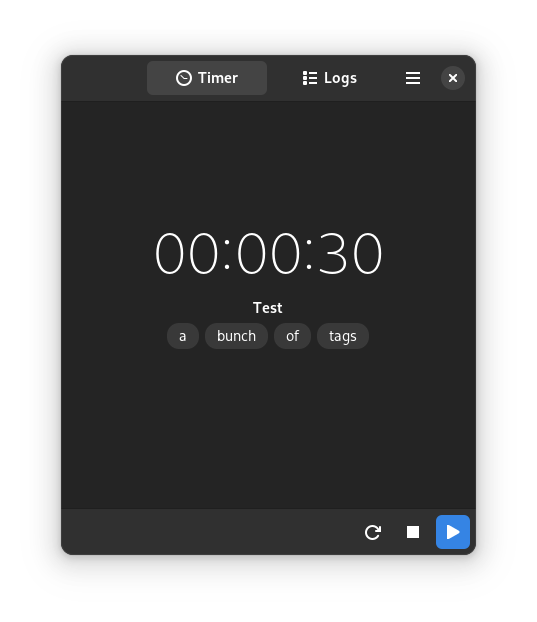
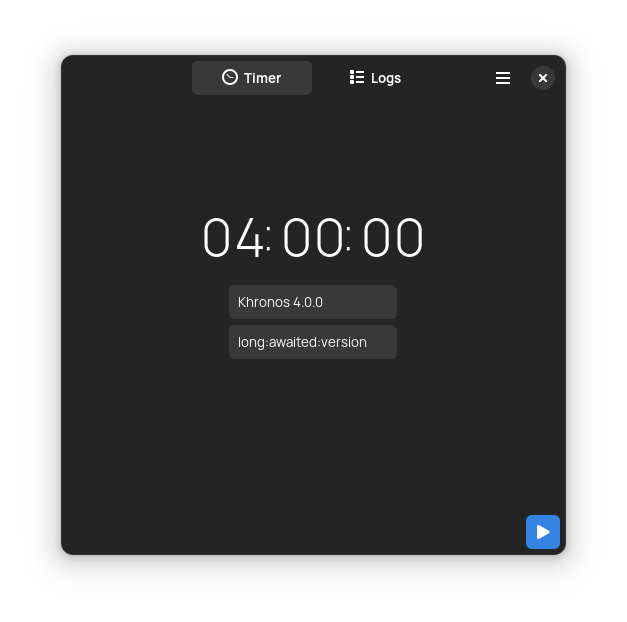
4.0.0

diff --git a/data/style.css b/data/style.css
@@ -4,7 +4,7 @@
 }
 
 .kh-title {
-  font-size: 4rem;
+  font-size: 400%;
   font-weight: 300;
 }
 
@@ -14,6 +14,6 @@
 
 .kh-tag {
   background: alpha(@view_fg_color, 0.1);
-  border-radius: 12px;
+  border-radius: 8px;
   padding: 4px 12px;
 }
